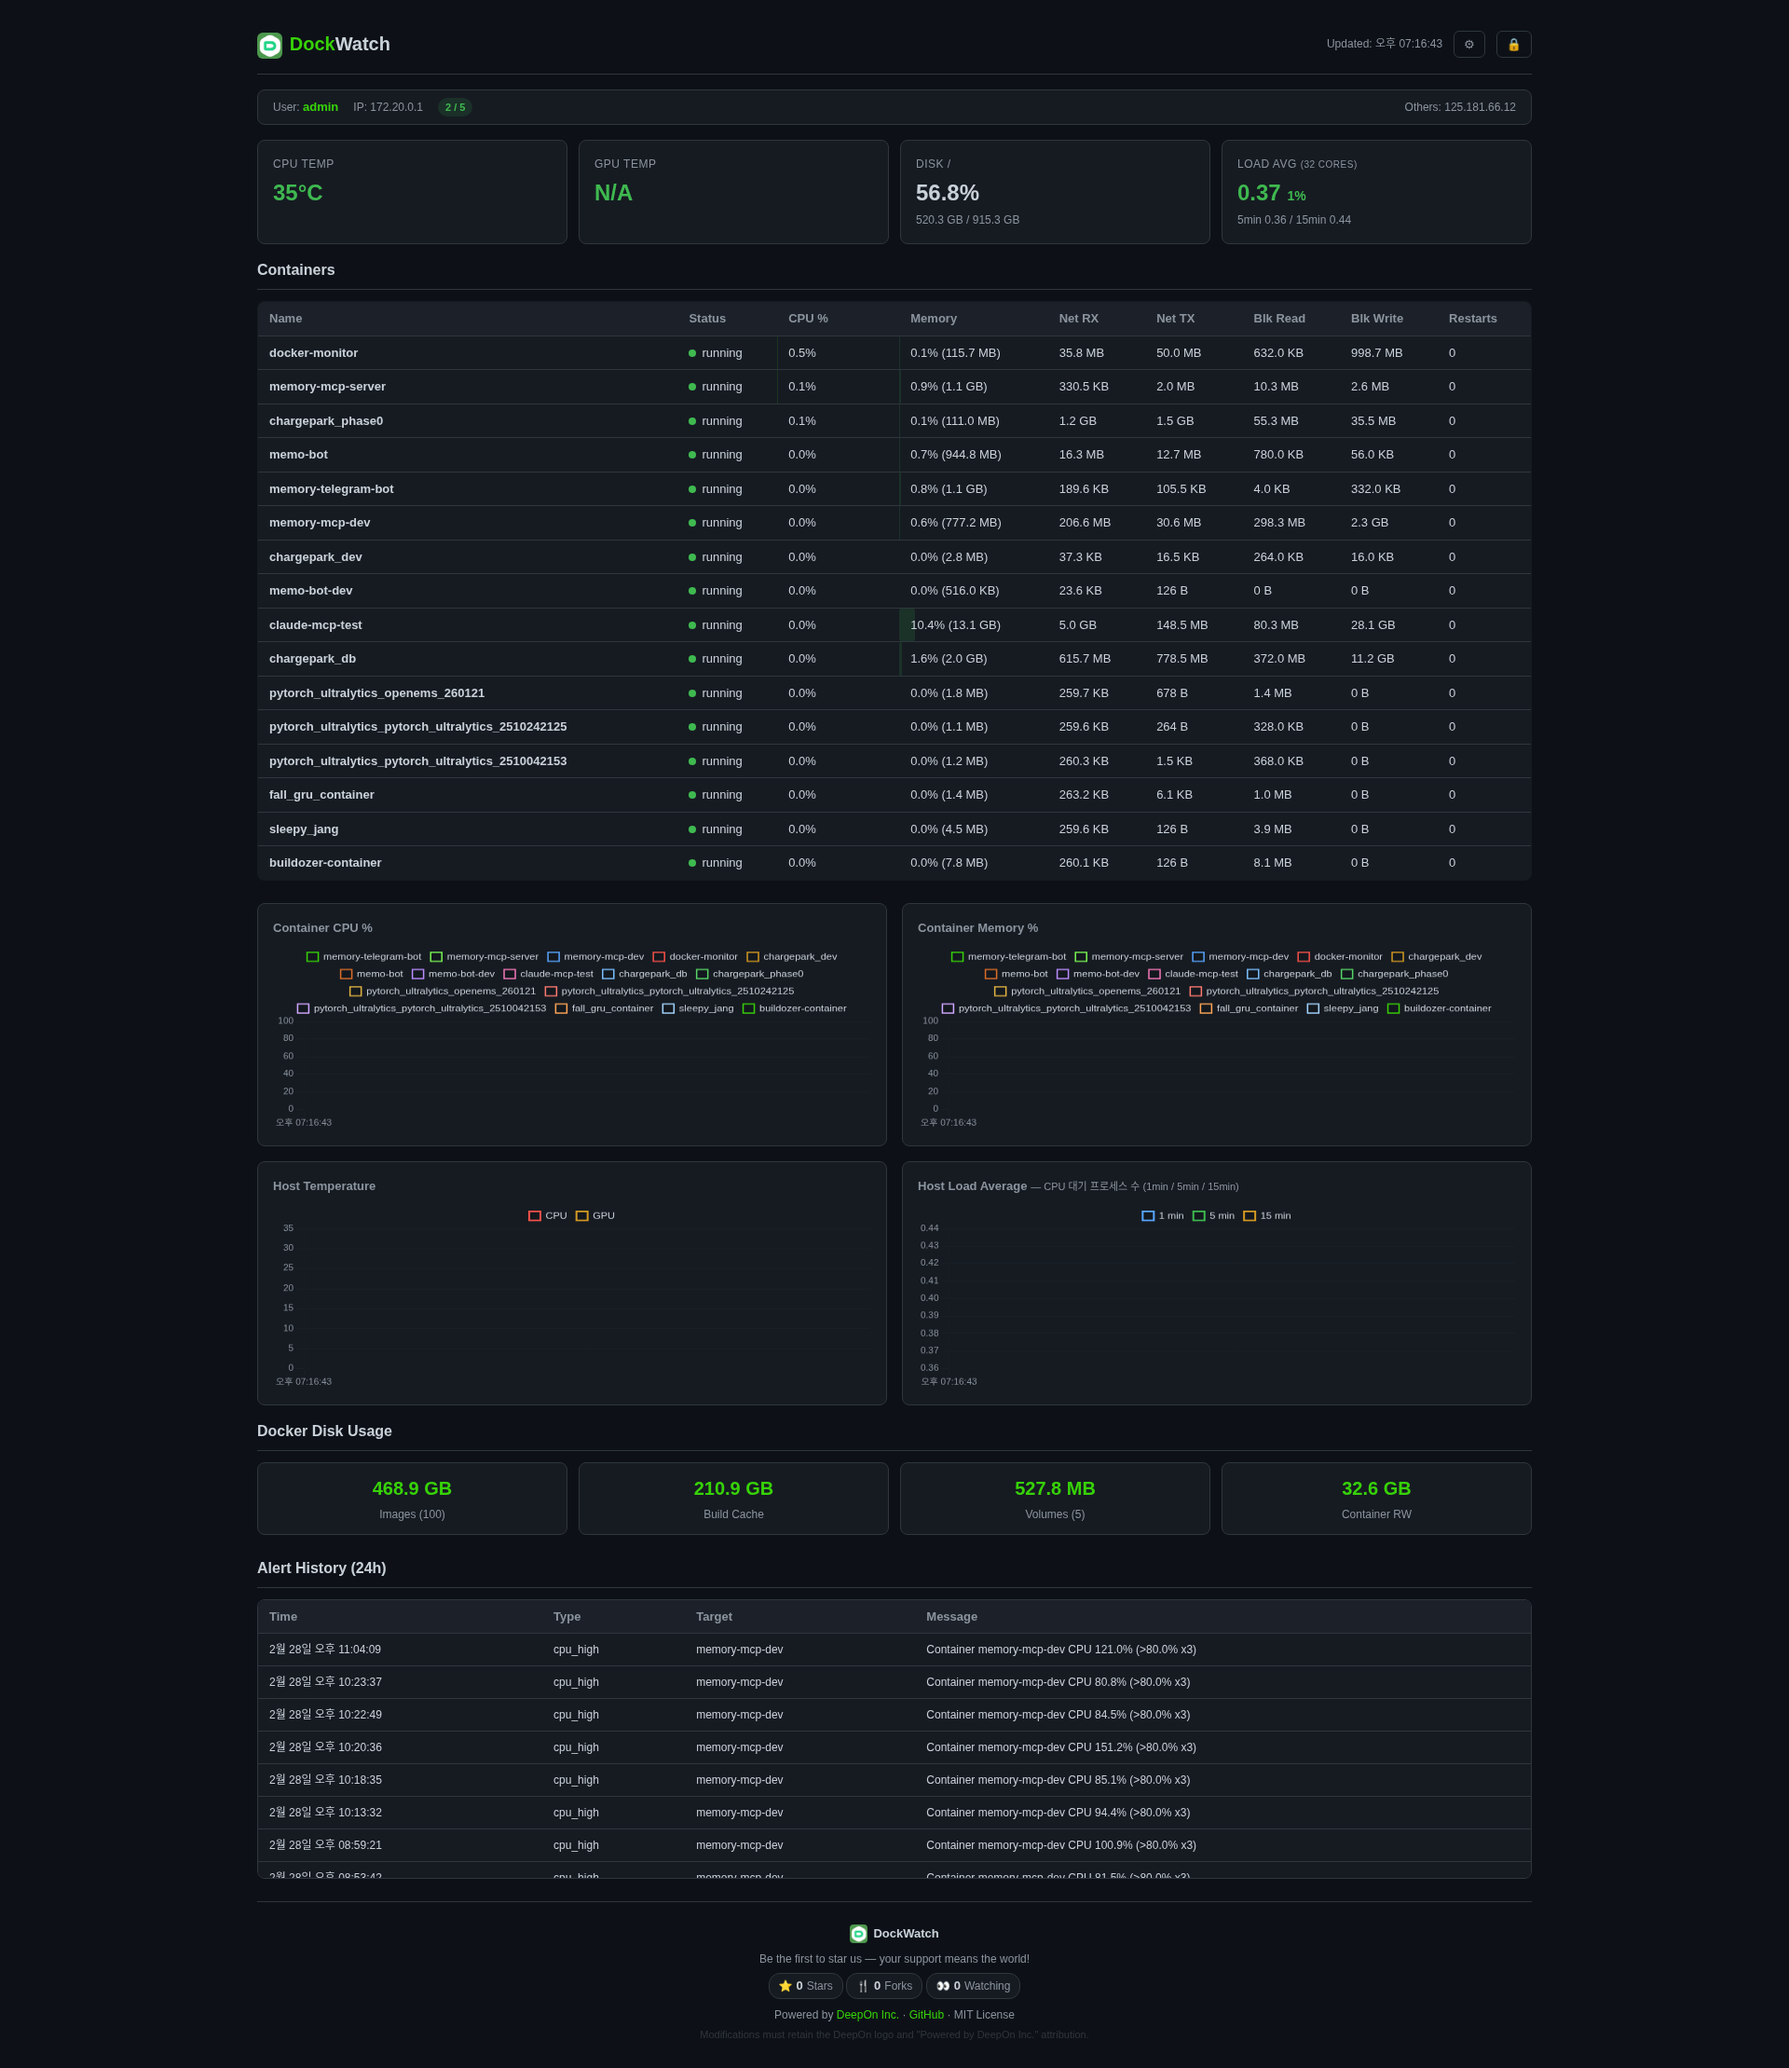
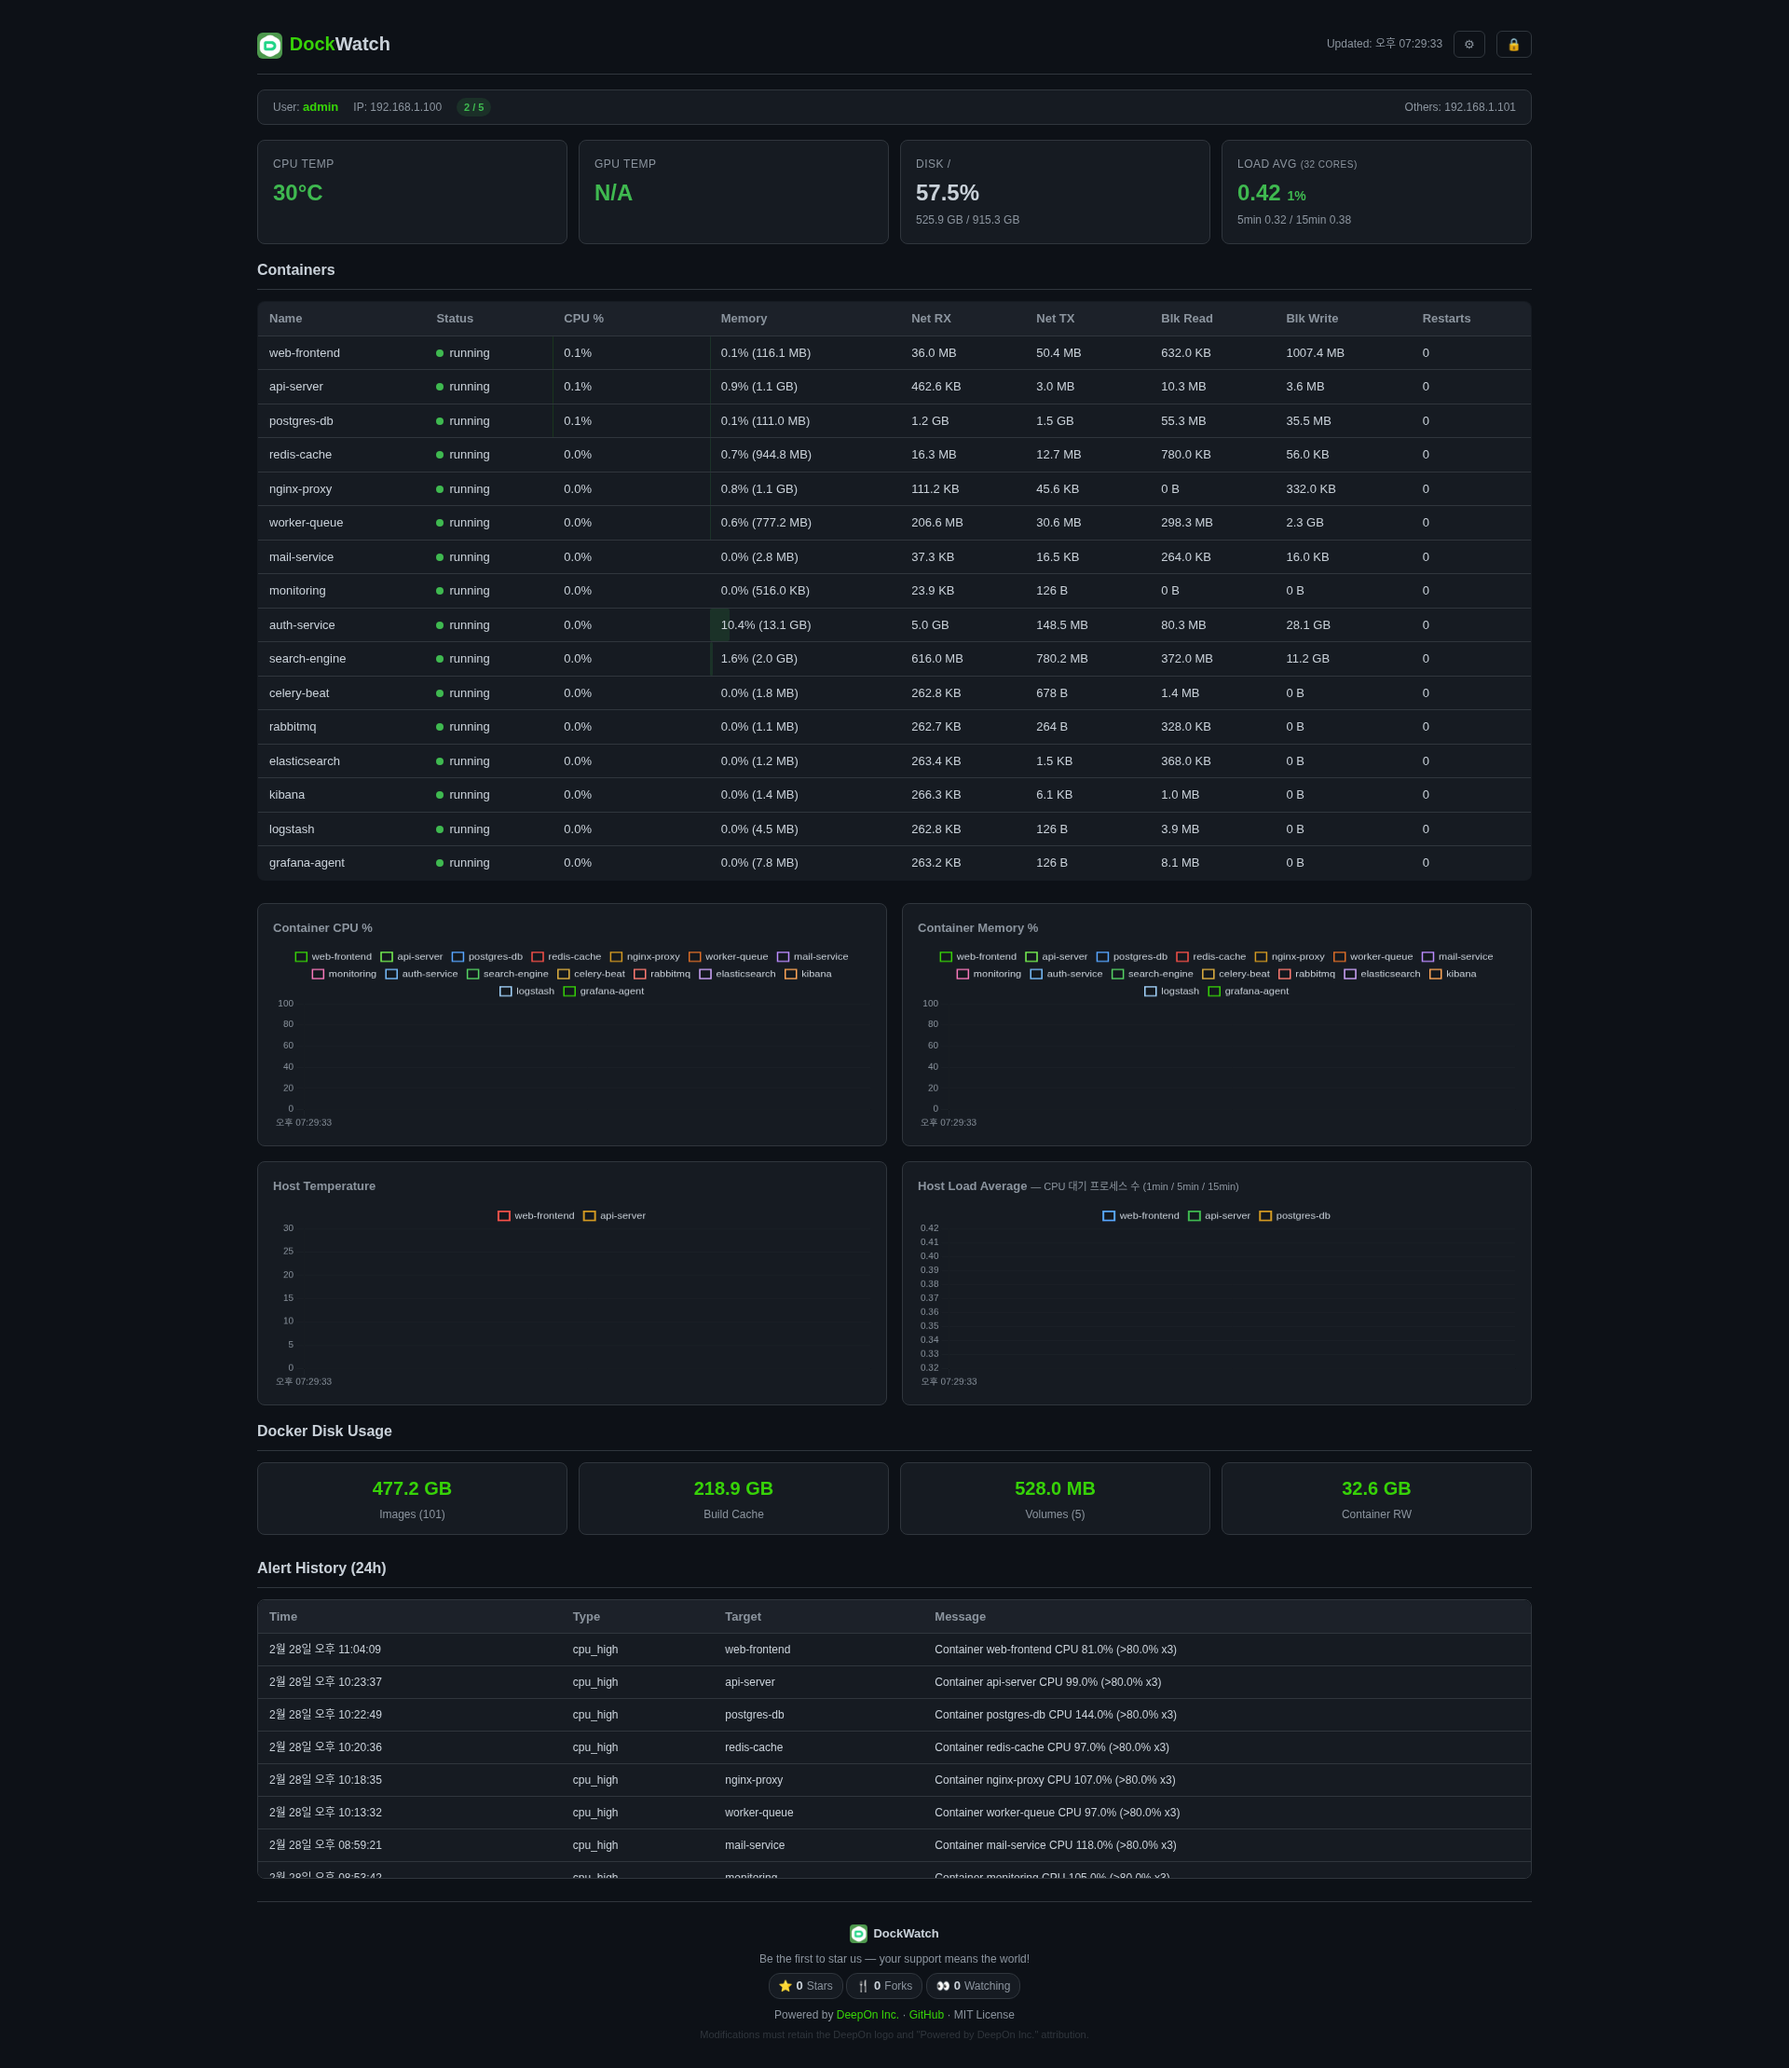
Replace sensitive data in screenshots with dummy names and IPs

diff --git a/docs/capture-screenshots.js b/docs/capture-screenshots.js
@@ -46,6 +46,53 @@ async function capture() {
   // Wait for data to populate
   await delay(5000);
 
+  // Replace sensitive content with dummy data and blur remaining
+  await page.evaluate(() => {
+    const dummyNames = [
+      'web-frontend', 'api-server', 'postgres-db', 'redis-cache',
+      'nginx-proxy', 'worker-queue', 'mail-service', 'monitoring',
+      'auth-service', 'search-engine', 'celery-beat', 'rabbitmq',
+      'elasticsearch', 'kibana', 'logstash', 'grafana-agent'
+    ];
+
+    // Replace container names in table
+    document.querySelectorAll('#containerBody tr').forEach((row, i) => {
+      const nameCell = row.querySelector('td:first-child');
+      if (nameCell) nameCell.textContent = dummyNames[i] || 'service-' + (i + 1);
+    });
+
+    // Replace session bar IP and Others
+    const ipEl = document.getElementById('sessionIp');
+    if (ipEl) ipEl.textContent = '192.168.1.100';
+    document.querySelectorAll('.session-bar span').forEach(el => {
+      if (el.textContent.includes('Others')) {
+        el.textContent = 'Others: 192.168.1.101';
+      }
+    });
+
+    // Replace alert history target and message
+    document.querySelectorAll('#alertBody tr').forEach((row, i) => {
+      const cells = row.querySelectorAll('td');
+      const name = dummyNames[i % dummyNames.length] || 'service';
+      if (cells[2]) cells[2].textContent = name;
+      if (cells[3]) cells[3].textContent = 'Container ' + name + ' CPU ' + (80 + Math.floor(Math.random() * 70)) + '.0% (>80.0% x3)';
+    });
+
+    // Replace chart legends with dummy names
+    if (typeof Chart !== 'undefined') {
+      Object.values(Chart.instances || {}).forEach(chart => {
+        if (chart.data && chart.data.datasets) {
+          chart.data.datasets.forEach((ds, i) => {
+            ds.label = dummyNames[i] || 'service-' + (i + 1);
+          });
+          chart.update('none');
+        }
+      });
+    }
+  });
+
+  await delay(500);
+
   // 1. Full page screenshot
   console.log('Capturing dashboard-full.png ...');
   await page.screenshot({
